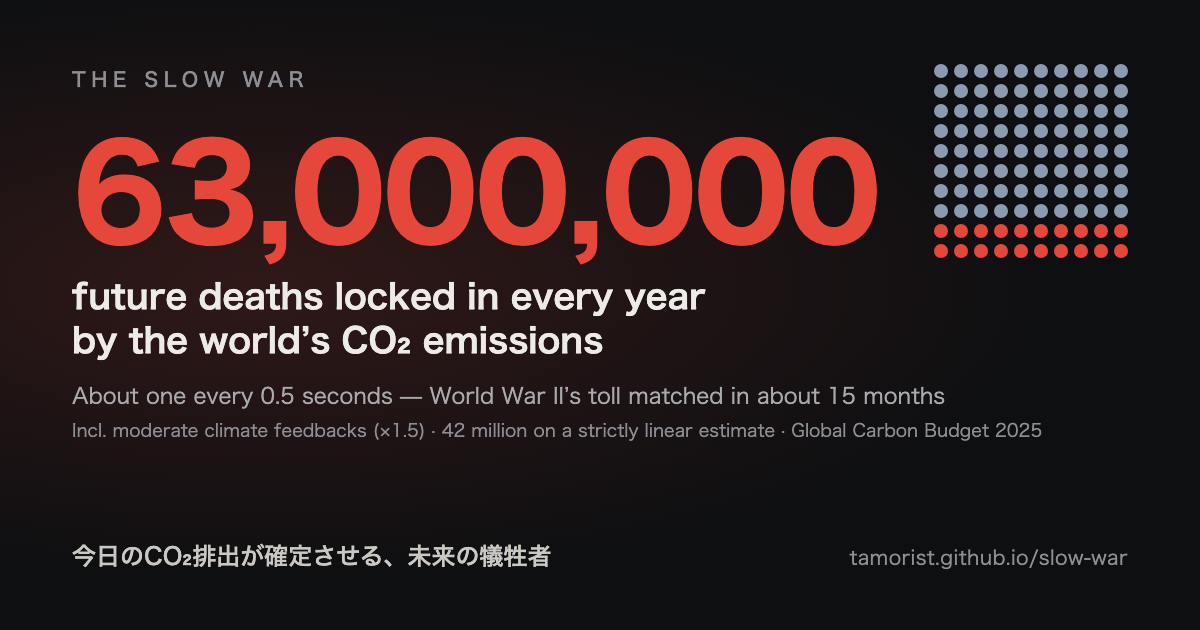
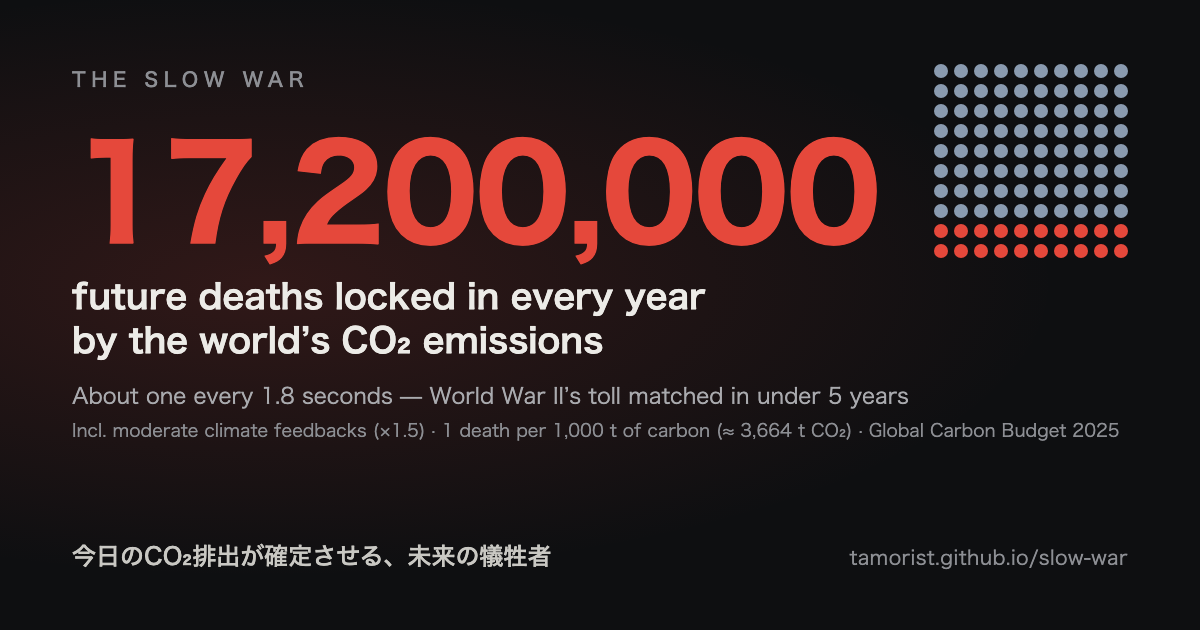
Fix the 1,000-ton rule: it is 1,000 t of carbon (≈ 3,664 t CO2) per death, not 1,000 t CO2
- Death factor corrected on all pages (story, detailed and personal simulators): all death counts fall ~3.7×
  (world, ×1.5: ≈ 17 million a year, one every ~1.8 s, WWII matched in ~4.7 years)
- Explanations, formula, sources and key assumptions now state carbon vs CO2 and the 0.1–10 range
- Bressler (2021) note: ≈ 4,434 t CO2 per excess death, consistent with the carbon-based rule
- Simulator slider defaults to 3,664 t; share image regenerated (17,200,000)

diff --git a/index.html b/index.html
@@ -15,7 +15,7 @@
 <meta property="og:image" content="https://tamorist.github.io/slow-war/og.png">
 <meta property="og:image:width" content="1200">
 <meta property="og:image:height" content="630">
-<meta property="og:image:alt" content="A counter showing 63,000,000 future deaths locked in every year by the world’s CO₂ emissions, including moderate feedbacks">
+<meta property="og:image:alt" content="A counter showing 17,200,000 future deaths locked in every year by the world’s CO₂ emissions, including moderate feedbacks">
 <meta property="og:locale" content="en_US">
 <meta property="og:locale:alternate" content="ja_JP">
 <meta name="twitter:card" content="summary_large_image">
@@ -310,7 +310,7 @@
 
 <footer data-i18n="footer"></footer>
 
-<script src="site.js?v=20261019m"></script>
+<script src="site.js?v=20261020a"></script>
 <script>
 /* ===================== DATA ===================== */
 // 化石燃料CO₂（2023年頃の概算, Global Carbon Project）。世界合計は土地利用変化を含む 40 Gt。
@@ -331,7 +331,8 @@ const TIPS = [
   { m: 2,   en: 'Tipping-point cascade ×2',              ja: 'ティッピング連鎖 ×2' },
   { m: 3,   en: 'Cascade + societal collapse ×3',        ja: '連鎖＋社会的崩壊 ×3' },
 ];
-const TPD = 1000, START = 2025, WW1 = 20e6, WW2 = 80e6, STADIUM = 55000;
+// 1,000トン・ルールの「1,000トン」は炭素（C）の重さ。CO₂に換算すると 1,000 × 44/12 ≒ 3,664 トンで将来の死者1人
+const TPD = 3664, START = 2025, WW1 = 20e6, WW2 = 80e6, STADIUM = 55000;
 
 /* ===================== I18N ===================== */
 const I18N = {
@@ -369,8 +370,8 @@ const I18N = {
     lostL: 'Lives lost', savedL: 'Lives saved',
     ctaK: 'Personal simulator', ctaV: 'What does your own day add up to?',
     mH: 'How these numbers are calculated',
-    mLead: 'We use the “1,000-ton rule”: for every 1,000 tonnes of CO₂ humanity emits, roughly one premature death occurs in the future through about a century of warming.',
-    formula: 'Annual emissions of {where} <span class="num">≈ {gt}</span> ÷ <span class="num">1,000 t</span>{mult} = <span class="num">≈ {perYear}</span> deaths a year',
+    mLead: 'We use the “1,000-ton rule”: for every 1,000 tonnes of fossil <b>carbon</b> burned — about 3,664 tonnes of CO₂ — roughly one premature death occurs in the future through about a century of warming. It is an order-of-magnitude estimate: the authors put the likely range at 0.1 to 10 deaths per 1,000 tonnes of carbon.',
+    formula: 'Annual emissions of {where} <span class="num">≈ {gt}</span> ÷ <span class="num">3,664 t CO₂</span> (= 1,000 t of carbon){mult} = <span class="num">≈ {perYear}</span> deaths a year',
     mList: [
       'Calculated from {start}, holding annual emissions of {where} at about {gt} (unless a pathway is chosen).',
       'By default we show <b>moderate feedbacks (×1.5)</b>. With tipping effects set to “None” it is a <b>conservative lower bound</b>. Tipping multipliers (×1.5 / ×2 / ×3) are <b>rough illustrative assumptions, not peer-reviewed estimates</b>. They show how the linear estimate could grow if feedbacks such as permafrost thaw and forest dieback, and societal cascades (conflict, famine, mass migration), are included. The Global Tipping Points Report 2025 finds that warm-water coral reefs have already passed their tipping point.',
@@ -417,8 +418,8 @@ const I18N = {
     lostL: '失われる命', savedL: '救える命',
     ctaK: '個人シミュレータ', ctaV: 'あなたの1日は、何人分？',
     mH: 'この数字の求め方',
-    mLead: '研究にもとづく「1,000トン・ルール」を使っています。人類がCO₂を1,000トン排出するごとに、今後およそ1世紀の温暖化を通じて、将来1人の早すぎる死が生じるという推計です。',
-    formula: '{where}の年間排出量 <span class="num">約{gt}</span> ÷ <span class="num">1,000トン</span>{mult} ＝ 年間 <span class="num">約{perYear}</span>',
+    mLead: '研究にもとづく「1,000トン・ルール」を使っています。化石燃料の<b>炭素</b>を1,000トン（CO₂に換算すると約3,664トン）燃やすごとに、今後およそ1世紀の温暖化を通じて、将来1人の早すぎる死が生じるという推計です。桁の目安となる推計で、著者は炭素1,000トンあたり0.1〜10人の幅があるとしています。',
+    formula: '{where}の年間排出量 <span class="num">約{gt}</span> ÷ <span class="num">CO₂ 3,664トン</span>（＝炭素1,000トン）{mult} ＝ 年間 <span class="num">約{perYear}</span>',
     mList: [
       '{start}年を起点に、{where}の年間排出量を約{gt}として計算しています（シナリオを選んだ場合を除く）。',
       '初期表示は<b>中程度のフィードバック（×1.5）</b>です。ティッピング効果を「なし」にすると<b>控えめな下限</b>の推計になります。×1.5／×2／×3 の係数は<b>査読済みの推計ではなく、目安として示した概算</b>です。永久凍土の融解や森林の枯死などのフィードバック、紛争・飢饉・大規模移民といった社会の連鎖的危機を含めた場合に、線形推計がどこまで膨らみうるかを示しています。Global Tipping Points Report 2025 は、暖かい海のサンゴ礁がすでにティッピング・ポイントを超えたと報告しています。',

diff --git a/simulator.html b/simulator.html
@@ -15,7 +15,7 @@
 <meta property="og:image" content="https://tamorist.github.io/slow-war/og.png">
 <meta property="og:image:width" content="1200">
 <meta property="og:image:height" content="630">
-<meta property="og:image:alt" content="A counter showing 63,000,000 future deaths locked in every year by the world’s CO₂ emissions, including moderate feedbacks">
+<meta property="og:image:alt" content="A counter showing 17,200,000 future deaths locked in every year by the world’s CO₂ emissions, including moderate feedbacks">
 <meta property="og:locale" content="en_US">
 <meta property="og:locale:alternate" content="ja_JP">
 <meta name="twitter:card" content="summary_large_image">
@@ -97,7 +97,7 @@
       <div class="hint" id="emisHint"></div>
 
       <label for="tpd" data-i18n="tpd"></label>
-      <div class="row"><input id="tpd" type="range" min="250" max="4000" step="50" value="1000"><span class="val" id="tpdV"></span></div>
+      <div class="row"><input id="tpd" type="range" min="500" max="10000" step="4" value="3664"><span class="val" id="tpdV"></span></div>
       <div class="hint" data-i18n="tpdHint"></div>
 
       <label for="tip" data-i18n="tip"></label>
@@ -160,7 +160,7 @@
 </main>
 <footer class="sim-footer" data-i18n="footer"></footer>
 
-<script src="site.js?v=20261019m"></script>
+<script src="site.js?v=20261020a"></script>
 <script>
 // 化石燃料CO₂（2023年頃の概算, Global Carbon Project）。世界合計は土地利用変化を含む 40 Gt。
 const COUNTRIES = {
@@ -186,10 +186,10 @@ const WW2 = 80e6, WW1 = 20e6;
 const I18N = {
   en: {
     title: 'Climate Casualty Simulator',
-    sub: 'Future deaths “locked in” by CO₂ emissions — based on the 1,000-ton rule (≈ 1 future death per 1,000 t of CO₂ emitted)',
+    sub: 'Future deaths “locked in” by CO₂ emissions — based on the 1,000-ton rule (≈ 1 future death per 1,000 t of carbon burned ≈ 3,664 t of CO₂)',
     params: 'PARAMETERS', country: 'Country / region', countryHint: 'Sets the emissions below (fossil CO₂ in 2024, Global Carbon Budget 2025)',
     emis: 'Annual CO₂ emissions (base year)', emisHint: '{name}: ≈ {gt} Gt / year',
-    tpd: 'CO₂ per one future death', tpdHint: '1,000-ton rule = 1,000 t per person',
+    tpd: 'CO₂ per one future death', tpdHint: '1,000-ton rule = 1,000 t of carbon ≈ 3,664 t CO₂ per person (likely range: 10× either way)',
     tip: 'Tipping effects (rough multiplier)', tipHint: 'Illustrative, not peer-reviewed: permafrost, forest dieback, conflict, famine, migration…',
     rate: 'Annual change in emissions', rateHint: '0% = flat / −3% = gradual cuts / −7% ≈ 2 °C pathway',
     start: 'Base year', end: 'Count until', reset: 'Reset',
@@ -206,10 +206,10 @@ const I18N = {
   },
   ja: {
     title: '気候犠牲者シミュレータ',
-    sub: '気候崩壊による「確定した未来の犠牲者」シミュレータ — 1,000トン・ルール（CO₂ 1,000 t 排出 ≒ 将来の死者 1 人）に基づく推計',
+    sub: '気候崩壊による「確定した未来の犠牲者」シミュレータ — 1,000トン・ルール（炭素1,000 t ≒ CO₂ 3,664 t の排出で将来の死者 1 人）に基づく推計',
     params: 'パラメータ', country: '国・地域', countryHint: '選ぶと下の排出量が設定されます（2024年の化石燃料由来CO₂、Global Carbon Budget 2025）',
     emis: '年間CO₂排出量（基準年）', emisHint: '{name}：約 {gt} Gt/年',
-    tpd: '1人の死を生む排出量', tpdHint: '1,000トン・ルール ＝ 1,000 t/人',
+    tpd: '1人の死を生む排出量（CO₂）', tpdHint: '1,000トン・ルール ＝ 炭素1,000 t ≒ CO₂ 3,664 t/人（幅は上下に約10倍）',
     tip: 'ティッピング効果（概算の係数）', tipHint: '査読済みの推計ではない目安：永久凍土・森林枯死・紛争・飢饉・移民など',
     rate: '排出量の年変化率', rateHint: '0% ＝ 現状維持 / −3% ＝ ゆるやかな削減 / −7% ≒ 2℃経路',
     start: '基準年', end: '集計終了年', reset: '初期値に戻す',

diff --git a/my-day.html b/my-day.html
@@ -423,7 +423,7 @@
 
 <div class="mbar"><div><span data-i18n="mToday"></span><br><b class="num" id="mKg">0</b> kg CO₂</div><div class="r" style="text-align:right"><span id="mScale"></span><br><b class="num" id="mImp">—</b></div></div>
 
-<script src="site.js?v=20261019m"></script>
+<script src="site.js?v=20261020a"></script>
 <script>
 /* ===================== DATA ===================== */
 const COUNTRIES = {
@@ -701,7 +701,7 @@ const I18N = {
       'Electricity uses an approximate grid factor for {where}: <b>{grid} kg CO₂/kWh</b>. Electric-car and air-con emissions change with the region you choose.',
       '<b>What changes with the region:</b> the electricity factor, population and national averages, household size (used to share the bath, appliances and the home) and the default bath habit (a daily bath in Japan, a shower elsewhere). Other assumptions — the default day, appliance and house lifetimes, a car shared by two, kerosene heaters — are based on Japan.',
       'Your total covers only the activities above. The household average also includes eating out, services, home upkeep and more, so it is usually higher — see the whole-picture bar.',
-      'Deaths use the 1,000-ton rule (1 t CO₂ ≈ 0.001 future deaths) × the tipping multiplier you select.',
+      'Deaths use the 1,000-ton rule — 1,000 t of carbon ≈ 3,664 t CO₂ ≈ 1 future death (an order-of-magnitude estimate) — × the tipping multiplier you select.',
       '<b>This is not about blame.</b> One person’s choices are tiny on their own. The point is what becomes possible when habits — and the systems behind them — change at scale.',
     ],
     factorsH: 'Show emission factors used',
@@ -845,7 +845,7 @@ const I18N = {
       '電気は{where}の電力の概算係数 <b>{grid} kg CO₂/kWh</b> で計算しています。電気自動車やエアコンの排出は、選んだ国・地域によって変わります。',
       '<b>国・地域で変わるもの：</b>電気の排出係数、人口と国の平均値、世帯人数（湯船・家電・家を分ける計算）、お風呂の初期設定（日本は毎日湯船、ほかはシャワー）。そのほかの前提（初期設定の1日、家電や家の使用年数、車を2人で1台、石油ストーブなど）は日本の条件にもとづきます。',
       'あなたの合計は上の項目だけです。生活由来の平均には外食・サービス・住まいの維持なども含まれるため、ふつうはそれより高くなります（全体像の帯を参照）。',
-      '犠牲者数は1,000トン・ルール（CO₂ 1トン ≒ 将来の死者0.001人）に、選んだティッピング係数を掛けて求めています。',
+      '犠牲者数は1,000トン・ルール（炭素1,000 t ≒ CO₂ 3,664 t で将来の死者1人。桁の目安となる推計）に、選んだティッピング係数を掛けて求めています。',
       '<b>個人を責めるためのものではありません。</b>1人の選択だけでは小さな数字です。大切なのは、習慣と、それを支える社会の仕組みが大きな規模で変わったときに何が起きるかです。',
     ],
     factorsH: '使っている排出係数を見る',
@@ -930,7 +930,7 @@ const SWAPS = [
   { id: 'lessStuff',     ok: d => d.other === 'mid' || d.other === 'high',                      apply: d => { d.other = d.other === 'high' ? 'mid' : 'low'; } },
   { id: 'refill',        ok: d => d.shop.bottle > 0,                                            apply: d => { d.shop.bottle = 0; } },
 ];
-const deathsPerKg = () => mult() / 1e6;       // 1,000 t = 1e6 kg ≒ 1人
+const deathsPerKg = () => mult() / 3.664e6;   // 炭素1,000 t ＝ CO₂ 3,664 t ＝ 3.664e6 kg ≒ 1人
 const livesPerYear = (kgDay, pop) => kgDay * 365 * pop * deathsPerKg();
 
 /* ===================== BUILD INPUTS ===================== */

diff --git a/site.js b/site.js
@@ -28,11 +28,11 @@ const SW_GROUPS = {
 const SW_SOURCES = [
   // 基本の推計
   { g: 'core', cite: 'Pearce, J.M. & Parncutt, R. (2023)', title: 'Quantifying Global Greenhouse Gas Emissions in Human Deaths to Guide Energy Policy', venue: 'Energies 16(16): 6074', url: 'https://doi.org/10.3390/en16166074',
-    en: 'The “1,000-ton rule” (≈ 1 future premature death per 1,000 t of CO₂). The basis of every death estimate on this site.',
-    ja: '「1,000トン・ルール」（CO₂ 1,000 t ≒ 将来の早すぎる死 1人）。このサイトのすべての死者数の推計の土台です。' },
+    en: 'The “1,000-ton rule”: about 1 future premature death per 1,000 t of fossil carbon burned (≈ 3,664 t of CO₂). An order-of-magnitude estimate (likely 0.1–10 deaths per 1,000 tC). The basis of every death estimate on this site.',
+    ja: '「1,000トン・ルール」：化石燃料の炭素1,000 t（CO₂に換算して約3,664 t）を燃やすごとに、将来の早すぎる死が約1人。桁の目安となる推計です（炭素1,000 tあたり0.1〜10人の幅）。このサイトのすべての死者数の推計の土台です。' },
   { g: 'core', cite: 'Bressler, R.D. (2021)', title: 'The mortality cost of carbon', venue: 'Nature Communications 12: 4467', url: 'https://doi.org/10.1038/s41467-021-24487-w',
-    en: 'An independent estimate of excess deaths per tonne of CO₂. Useful for seeing how widely such estimates range.',
-    ja: 'CO₂ 1トンあたりの超過死亡を独自に推計した研究。推計の幅を知るのに役立ちます。' },
+    en: 'An independent estimate: about 4,434 t of CO₂ (2020 emissions) per excess death by 2100 — close to the carbon-based 1,000-ton rule. Useful for seeing how widely such estimates range.',
+    ja: '独自の推計で、CO₂ 約4,434 t（2020年の排出）あたり2100年までに超過死亡1人。炭素ベースの1,000トン・ルールに近い値です。推計の幅を知るのに役立ちます。' },
 
   // 排出量と人口
   { g: 'emissions', cite: 'Friedlingstein, P. et al. (2026)', title: 'Global Carbon Budget 2025', venue: 'Earth System Science Data 18: 3211–3288', url: 'https://doi.org/10.5194/essd-18-3211-2026',

diff --git a/sources.html b/sources.html
@@ -87,7 +87,7 @@
 
 <footer data-i18n="footer"></footer>
 
-<script src="site.js?v=20261019m"></script>
+<script src="site.js?v=20261020a"></script>
 <script>
 const I18N = {
   en: {
@@ -98,7 +98,7 @@ const I18N = {
     keyH: 'Key numbers and assumptions',
     cols: ['Number', 'Value used', 'Source'],
     rows: [
-      ['Deaths per tonne of CO₂', '1 future death per 1,000 t (the “1,000-ton rule”)', 'Pearce & Parncutt (2023)', 'data'],
+      ['Deaths per tonne of CO₂', '1 future death per 1,000 t of carbon ≈ 3,664 t CO₂ (the “1,000-ton rule”; likely range 0.1–10 deaths per 1,000 tC)', 'Pearce & Parncutt (2023)', 'data'],
       ['World emissions', '~42 Gt CO₂ a year (2024, incl. land-use change)', 'Global Carbon Budget 2025', 'data'],
       ['Country emissions', 'Fossil CO₂ in 2024', 'Global Carbon Budget 2025 / Our World in Data', 'data'],
       ['Tipping multipliers', '×1.5 (default) / ×2 / ×3', 'Our illustrative assumption, informed by Armstrong McKay et al. (2022) and the Global Tipping Points Report 2025', 'est'],
@@ -140,7 +140,7 @@ const I18N = {
     keyH: '主な数値と前提',
     cols: ['項目', '使っている値', '出典'],
     rows: [
-      ['CO₂ 1トンあたりの死者', '1,000 tで将来の死者1人（1,000トン・ルール）', 'Pearce & Parncutt (2023)', 'data'],
+      ['CO₂ 1トンあたりの死者', '炭素1,000 t ≒ CO₂ 3,664 tで将来の死者1人（1,000トン・ルール。炭素1,000 tあたり0.1〜10人の幅）', 'Pearce & Parncutt (2023)', 'data'],
       ['世界の排出量', '年約42 Gt CO₂（2024年、土地利用変化を含む）', 'Global Carbon Budget 2025', 'data'],
       ['国別の排出量', '2024年の化石燃料由来CO₂', 'Global Carbon Budget 2025 / Our World in Data', 'data'],
       ['ティッピング係数', '×1.5（初期値）／×2／×3', '私たちが置いた目安（Armstrong McKay ら 2022、Global Tipping Points Report 2025 を参考）', 'est'],
